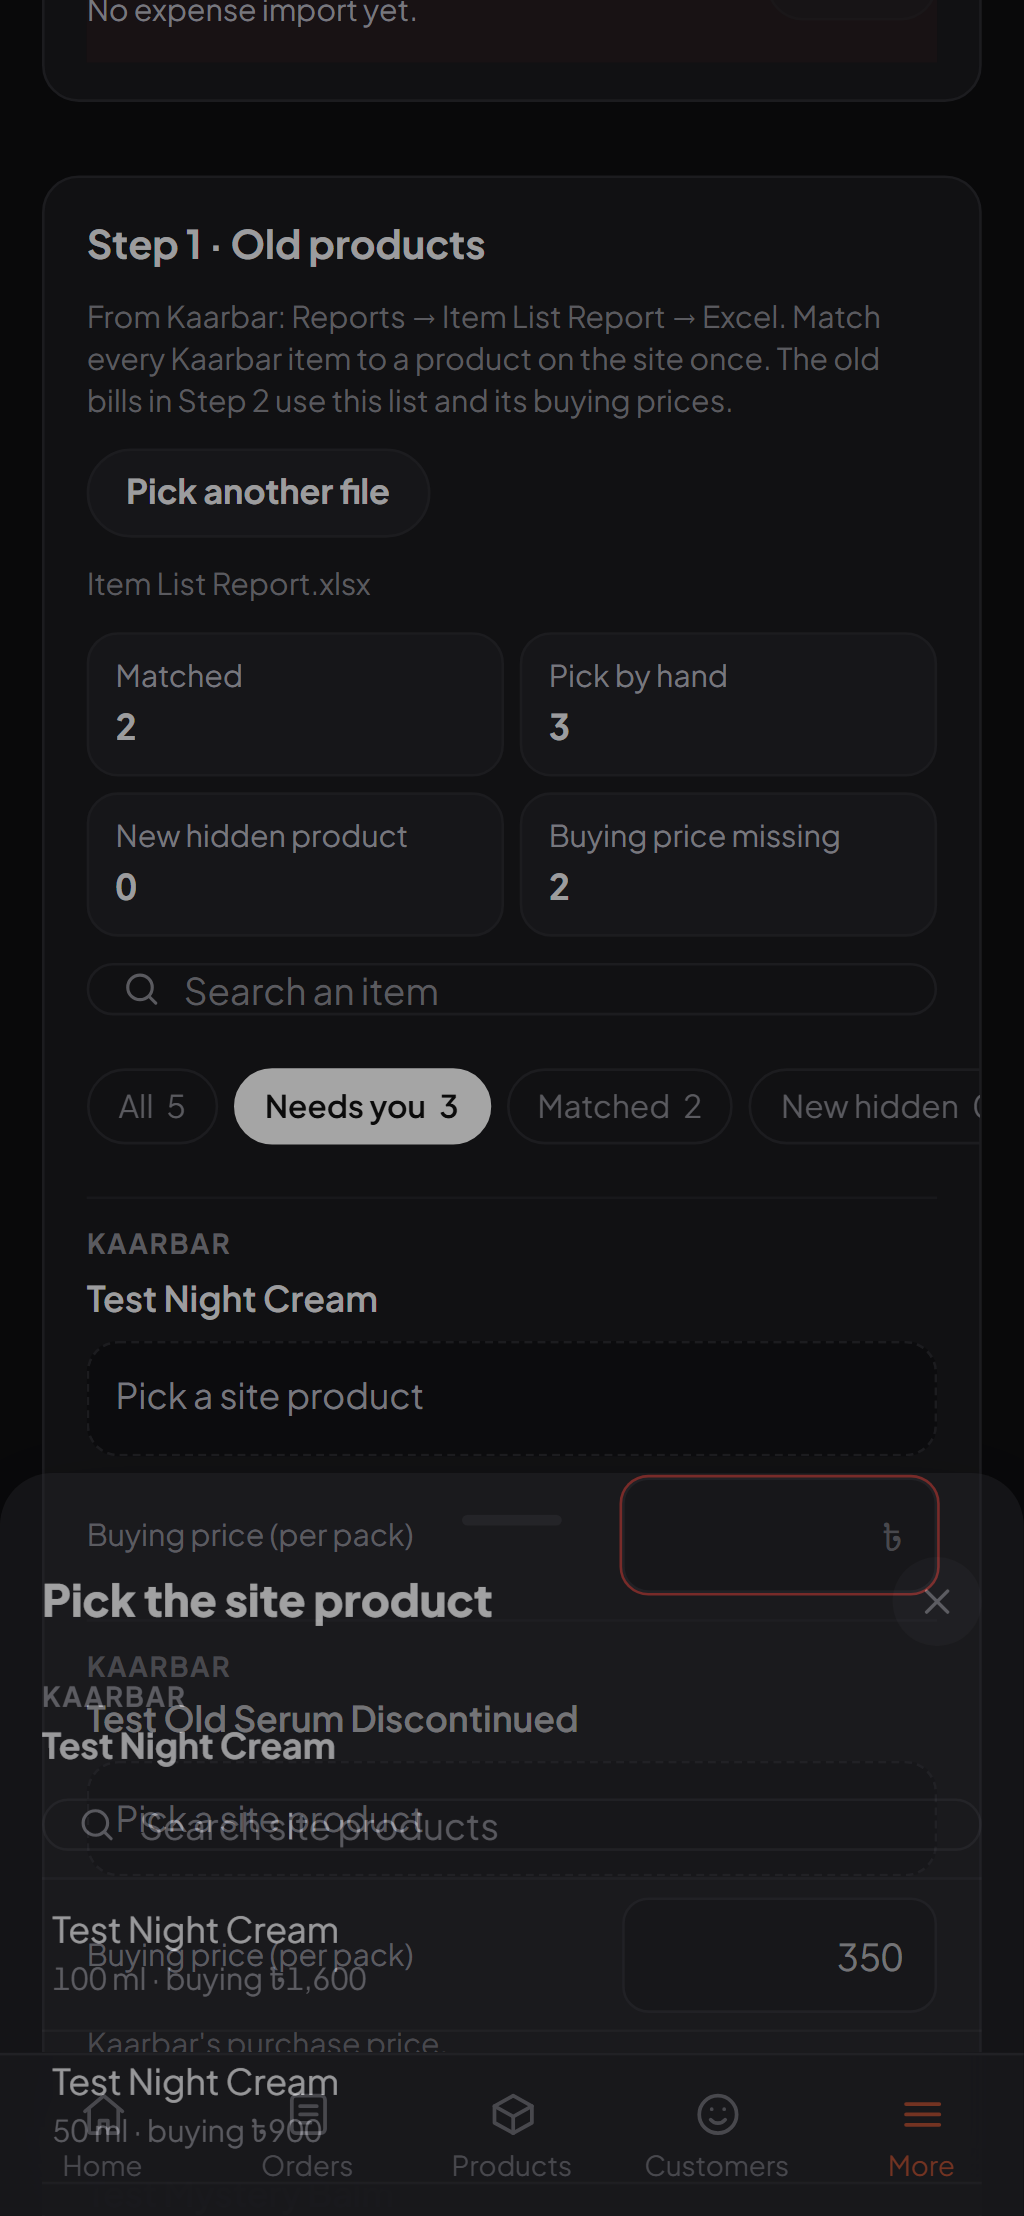
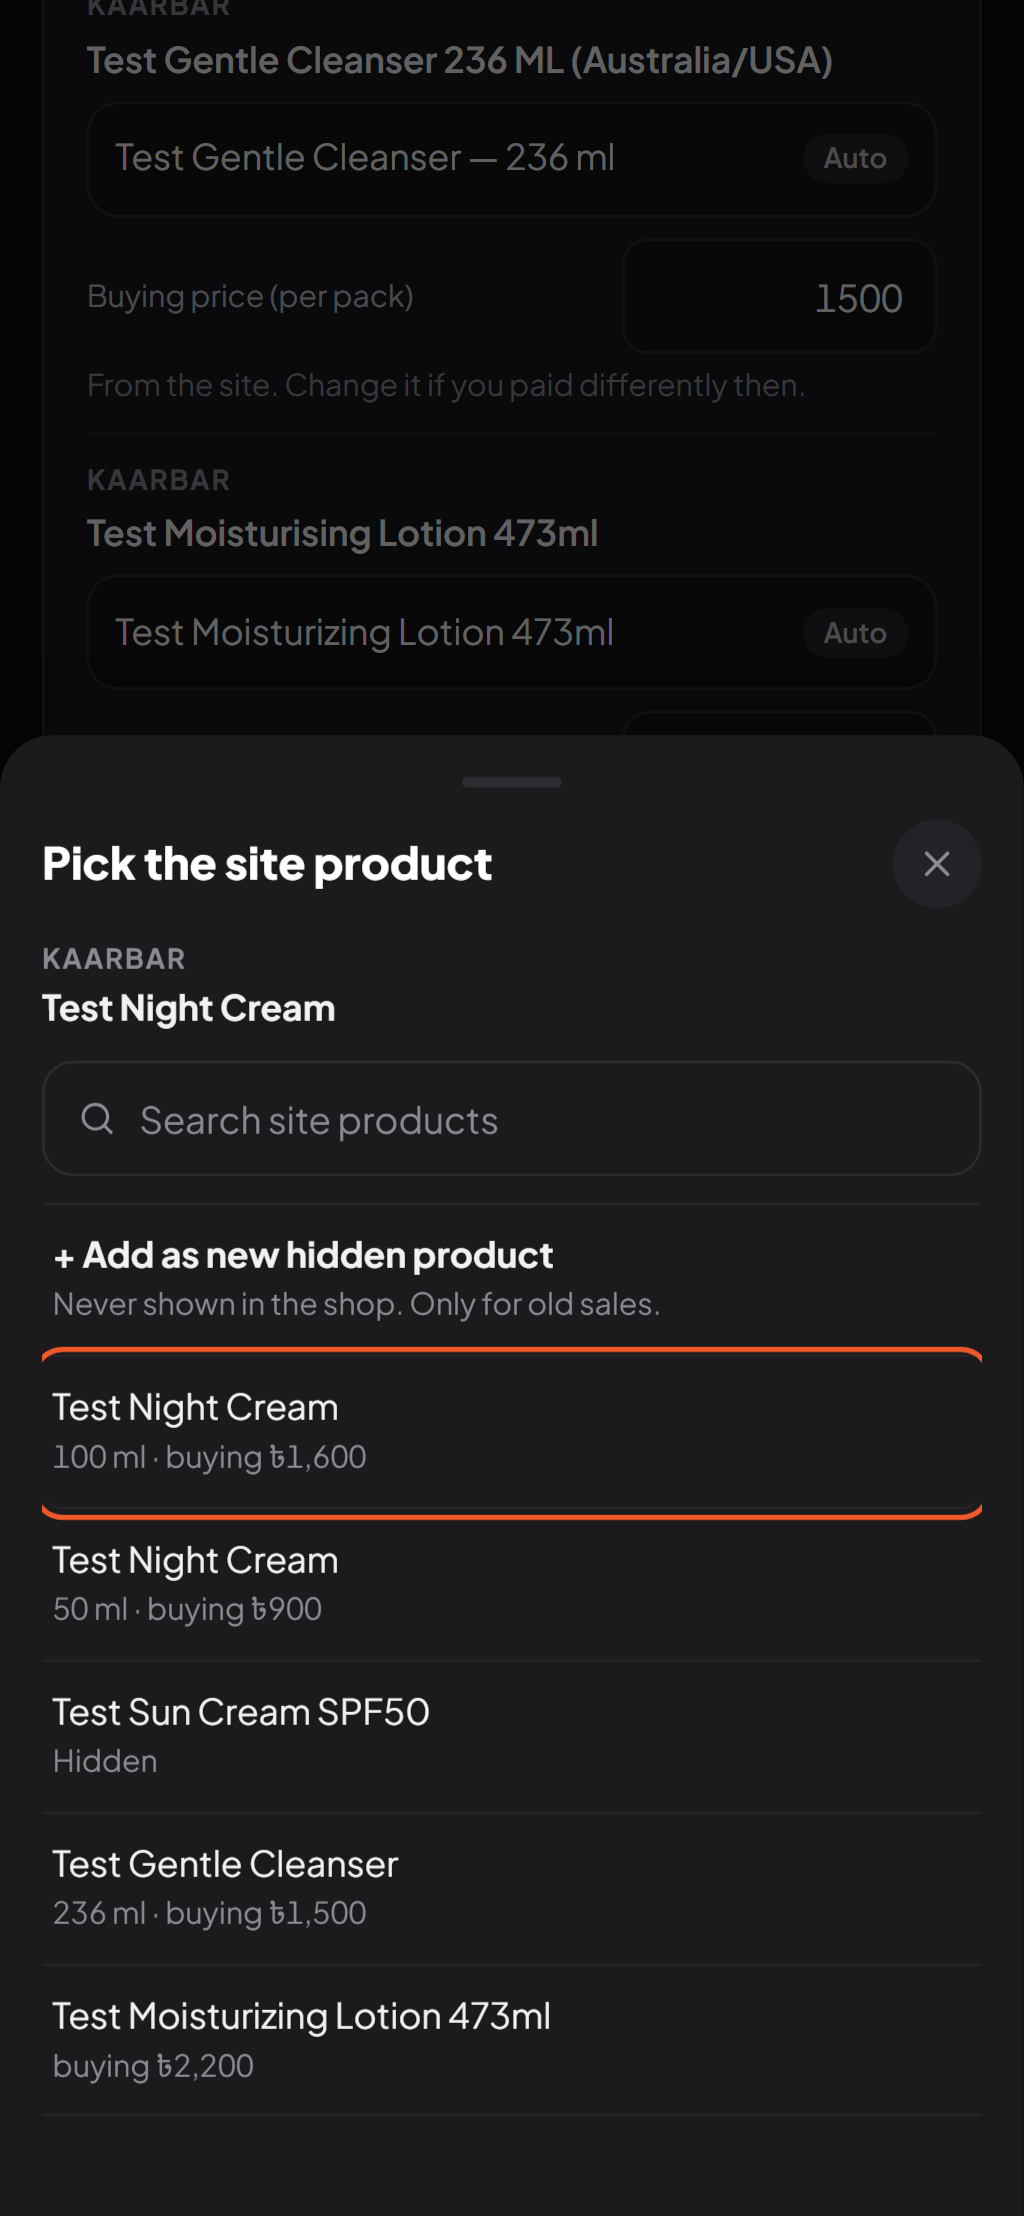
Batch 50 picker fix (1.50.1): Add as new hidden product first in the picker; unmatched Kaarbar items default to a new hidden product; the picker list scrolls (wheel, keyboard arrows)

diff --git a/e2e/batch-50.spec.ts b/e2e/batch-50.spec.ts
@@ -276,16 +276,17 @@ for (const theme of ['light', 'dark'] as const) {
     await expect(preview).toBeVisible({ timeout: 15_000 });
     const count = (id: string) => page.getByTestId(`kb-pcount-${id}`).locator('b');
     await expect(count('matched')).toHaveText('2');
-    await expect(count('hand')).toHaveText('3');
-    await expect(count('hidden')).toHaveText('0');
+    await expect(count('hand')).toHaveText('0');
+    // No sure match: a new hidden product by default, tagged without opening the picker.
+    await expect(count('hidden')).toHaveText('3');
     await expect(count('price')).toHaveText('2');
-    // "Needs you" is the starting view.
+    // "Needs you" is the starting view (the two with no price).
     const rows = page.getByTestId('kb-item-row');
-    await expect(rows).toHaveCount(3);
+    await expect(rows).toHaveCount(2);
+    await expect(rows.first()).toContainText('Hidden');
     await expect(page.getByTestId('kb-products-save')).toBeDisabled();
-    await expect(page.getByTestId('kb-products-save-note')).toHaveText('3 items still need a product or a buying price.');
+    await expect(page.getByTestId('kb-products-save-note')).toHaveText('2 items still need a product or a buying price.');
     const row = (name: string) => rows.filter({ hasText: name });
-    await expect(row('Test Old Serum Discontinued').getByTestId('kb-item-price')).toHaveValue('350');
     await expect(row('Test Mystery Balm').getByTestId('kb-item-price')).toHaveAttribute('aria-invalid', 'true');
 
     // The matched ones, with the site's buying price.
@@ -294,23 +295,26 @@ for (const theme of ['light', 'dark'] as const) {
     await expect(row('Test Gentle Cleanser 236 ML')).toContainText('Auto');
     await expect(row('Test Gentle Cleanser 236 ML').getByTestId('kb-item-price')).toHaveValue('1500');
     await expect(row('Test Gentle Cleanser 236 ML')).toContainText('From the site. Change it if you paid differently then.');
-    await page.getByRole('button', { name: /^Needs you/ }).click();
+    await page.getByRole('button', { name: /^All/ }).click();
 
     // Night Cream: two options → pick by hand.
     await row('Test Night Cream').getByTestId('kb-item-pick').click();
     const picker = page.getByTestId('kb-picker');
     await expect(picker).toBeVisible();
-    await expect(picker.getByTestId('kb-picker-hidden')).toContainText('+ Add as new hidden product');
+    // "+ Add as new hidden product" is the first row; arrow keys move down the list.
+    await expect(picker.locator('.kb-picker__row').first()).toHaveAttribute('data-testid', 'kb-picker-hidden');
+    await picker.getByLabel('Search site products').press('ArrowDown');
+    await expect(picker.getByTestId('kb-picker-hidden')).toBeFocused();
+    await page.keyboard.press('ArrowDown');
+    await expect(picker.getByTestId('kb-picker-choice').first()).toBeFocused();
+    const scrolls = await picker.getByTestId('kb-picker-list').evaluate((el) => getComputedStyle(el).overflowY === 'auto' && el.clientHeight > 0);
+    expect(scrolls, 'the list is its own scroll area').toBe(true);
     await noSidewaysScroll(page);
     await page.screenshot({ path: `${SHOTS}/${theme}-01-step1-picker-open.png` });
     await picker.getByTestId('kb-picker-choice').filter({ hasText: '100 ml' }).click();
     await expect(picker).toBeHidden();
 
-    // Old Serum and Mystery Balm: new hidden products.
-    await row('Test Old Serum Discontinued').getByTestId('kb-item-pick').click();
-    await page.getByTestId('kb-picker-hidden').click();
-    await row('Test Mystery Balm').getByTestId('kb-item-pick').click();
-    await page.getByTestId('kb-picker-hidden').click();
+    // Old Serum and Mystery Balm are already new hidden products.
     await row('Test Mystery Balm').getByTestId('kb-item-price').fill('120');
     await expect(page.getByTestId('kb-products-save')).toBeEnabled();
     // The card's main button is near-black (light) / near-white (dark), never orange.
@@ -323,6 +327,7 @@ for (const theme of ['light', 'dark'] as const) {
     await expect(row('Test Night Cream')).toContainText('By hand');
     await expect(row('Test Night Cream').getByTestId('kb-item-price')).toHaveValue('1600');
     await expect(row('Test Old Serum Discontinued')).toContainText('New hidden product');
+    await expect(row('Test Old Serum Discontinued').getByTestId('kb-item-price')).toHaveValue('350');
     await expect(count('hidden')).toHaveText('2');
     await noSidewaysScroll(page);
     await noOrangeOnCard(page, 'kb-products');

diff --git a/src/components/admin/kaarbar/KaarbarProductsCard.tsx b/src/components/admin/kaarbar/KaarbarProductsCard.tsx
@@ -1,4 +1,4 @@
-import { useEffect, useMemo, useRef, useState } from 'react';
+import { useEffect, useMemo, useRef, useState, type KeyboardEvent } from 'react';
 import { useToast } from '../../../hooks/useToast';
 import { readKaarbarFile } from '../../../lib/kaarbar/api';
 import {
@@ -343,6 +343,19 @@ function ChoicePicker({
     if (draft) setQuery('');
   }, [draft]);
   const list = useMemo(() => (draft ? searchChoices(query, draft.name, choices).slice(0, 40) : []), [draft, query, choices]);
+  // Arrow keys move between the rows (from the search box too); the
+  // focused row scrolls into view.
+  const listRef = useRef<HTMLUListElement>(null);
+  const moveFocus = (e: KeyboardEvent<HTMLElement>) => {
+    if (e.key !== 'ArrowDown' && e.key !== 'ArrowUp') return;
+    const rows = Array.from(listRef.current?.querySelectorAll<HTMLButtonElement>('.kb-picker__row') ?? []);
+    if (rows.length === 0) return;
+    e.preventDefault();
+    const at = rows.indexOf(document.activeElement as HTMLButtonElement);
+    const next = at < 0 ? (e.key === 'ArrowDown' ? 0 : rows.length - 1) : Math.min(rows.length - 1, Math.max(0, at + (e.key === 'ArrowDown' ? 1 : -1)));
+    rows[next].focus();
+    rows[next].scrollIntoView({ block: 'nearest' });
+  };
   return (
     <BottomSheet isOpen={draft !== null} onClose={onClose} title="Pick the site product" panelClassName="kb-picker">
       <div className="kb-picker__body" data-testid="kb-picker">
@@ -352,8 +365,16 @@ function ChoicePicker({
             <b>{draft.name}</b>
           </p>
         )}
-        <AdminSearch value={query} onChange={setQuery} placeholder="Search site products" label="Search site products" />
-        <ul className="kb-picker__list">
+        <div onKeyDown={moveFocus}>
+          <AdminSearch value={query} onChange={setQuery} placeholder="Search site products" label="Search site products" />
+        </div>
+        <ul ref={listRef} className="kb-picker__list" tabIndex={-1} onKeyDown={moveFocus} data-testid="kb-picker-list">
+          <li>
+            <button type="button" className="kb-picker__row kb-picker__row--hidden" onClick={() => onChoose('hidden')} data-testid="kb-picker-hidden">
+              <span className="kb-picker__name">+ Add as new hidden product</span>
+              <span className="kb-row__sub">Never shown in the shop. Only for old sales.</span>
+            </button>
+          </li>
           {list.map((c) => {
             const on = draft?.choice !== null && draft?.choice !== undefined && choiceId(draft.choice) === choiceId(c);
             return (
@@ -370,12 +391,6 @@ function ChoicePicker({
             );
           })}
           {list.length === 0 && <li className="inv-muted kb-picker__none">No site product matches.</li>}
-          <li>
-            <button type="button" className="kb-picker__row kb-picker__row--hidden" onClick={() => onChoose('hidden')} data-testid="kb-picker-hidden">
-              <span className="kb-picker__name">+ Add as new hidden product</span>
-              <span className="kb-row__sub">Never shown in the shop. Only for old sales.</span>
-            </button>
-          </li>
         </ul>
       </div>
     </BottomSheet>

diff --git a/src/lib/batch50.test.ts b/src/lib/batch50.test.ts
@@ -114,12 +114,12 @@ describe('Step 1 list', () => {
     { n: 4, name: 'Mystery Cream', key: 'mysterycream', price: 0 },
   ];
 
-  it('matched → the site buying price; Kaarbar price → it; otherwise empty', () => {
+  it('matched → the site buying price; no sure match → a new hidden product with the Kaarbar price, else empty', () => {
     const d = buildDrafts(rows, [], [site]);
     expect(d[0]).toMatchObject({ how: 'auto', price: '2400', priceFrom: 'site' });
-    expect(d[1]).toMatchObject({ how: 'none', price: '350', priceFrom: 'kaarbar' });
-    expect(d[2]).toMatchObject({ how: 'none', price: '', priceFrom: 'none' });
-    expect(itemCounts(d)).toEqual({ matched: 1, byHand: 2, hidden: 0, noPrice: 1 });
+    expect(d[1]).toMatchObject({ how: 'hidden', price: '350', priceFrom: 'kaarbar' });
+    expect(d[2]).toMatchObject({ how: 'hidden', price: '', priceFrom: 'none' });
+    expect(itemCounts(d)).toEqual({ matched: 1, byHand: 0, hidden: 2, noPrice: 1 });
     expect(itemSaveRows(d)).toBeNull();
   });
 

diff --git a/src/lib/kaarbar/oldSales.ts b/src/lib/kaarbar/oldSales.ts
@@ -258,7 +258,8 @@ export function buildDrafts(rows: readonly ItemRow[], saved: readonly SavedItem[
     const m = suggestMatch(r.name, choices);
     const choice = m.confident ? m.best : null;
     const p = startPrice(choice, r.price);
-    return { key: r.key, name: r.name, kaarbarPrice: r.price, how: choice ? 'auto' : 'none', choice, price: p.price, priceFrom: p.from, saved: null };
+    // No sure match: a new hidden product by default (change it in the picker).
+    return { key: r.key, name: r.name, kaarbarPrice: r.price, how: choice ? 'auto' : 'hidden', choice, price: p.price, priceFrom: p.from, saved: null };
   });
   // Saved items that are not in this file stay in the list.
   const inFile = new Set(rows.map((r) => r.key));

diff --git a/src/styles/kaarbar.css b/src/styles/kaarbar.css
@@ -579,3 +579,32 @@
   border-color: var(--adm-text);
   color: var(--adm-card);
 }
+
+/* The picker list is the one thing that scrolls (mouse wheel, touch,
+   arrow keys): the sheet is a column and the list takes what is left. */
+.sheet-panel.kb-picker {
+  display: flex;
+  flex-direction: column;
+  overflow: hidden;
+}
+
+.kb-picker .sheet-body {
+  display: flex;
+  flex-direction: column;
+  flex: 1;
+  min-height: 0;
+}
+
+.kb-picker .kb-picker__body {
+  flex: 1;
+  height: auto;
+}
+
+.kb-picker__list:focus {
+  outline: none;
+}
+
+.kb-picker__row:focus-visible {
+  outline: 2px solid var(--adm-text);
+  outline-offset: -2px;
+}
